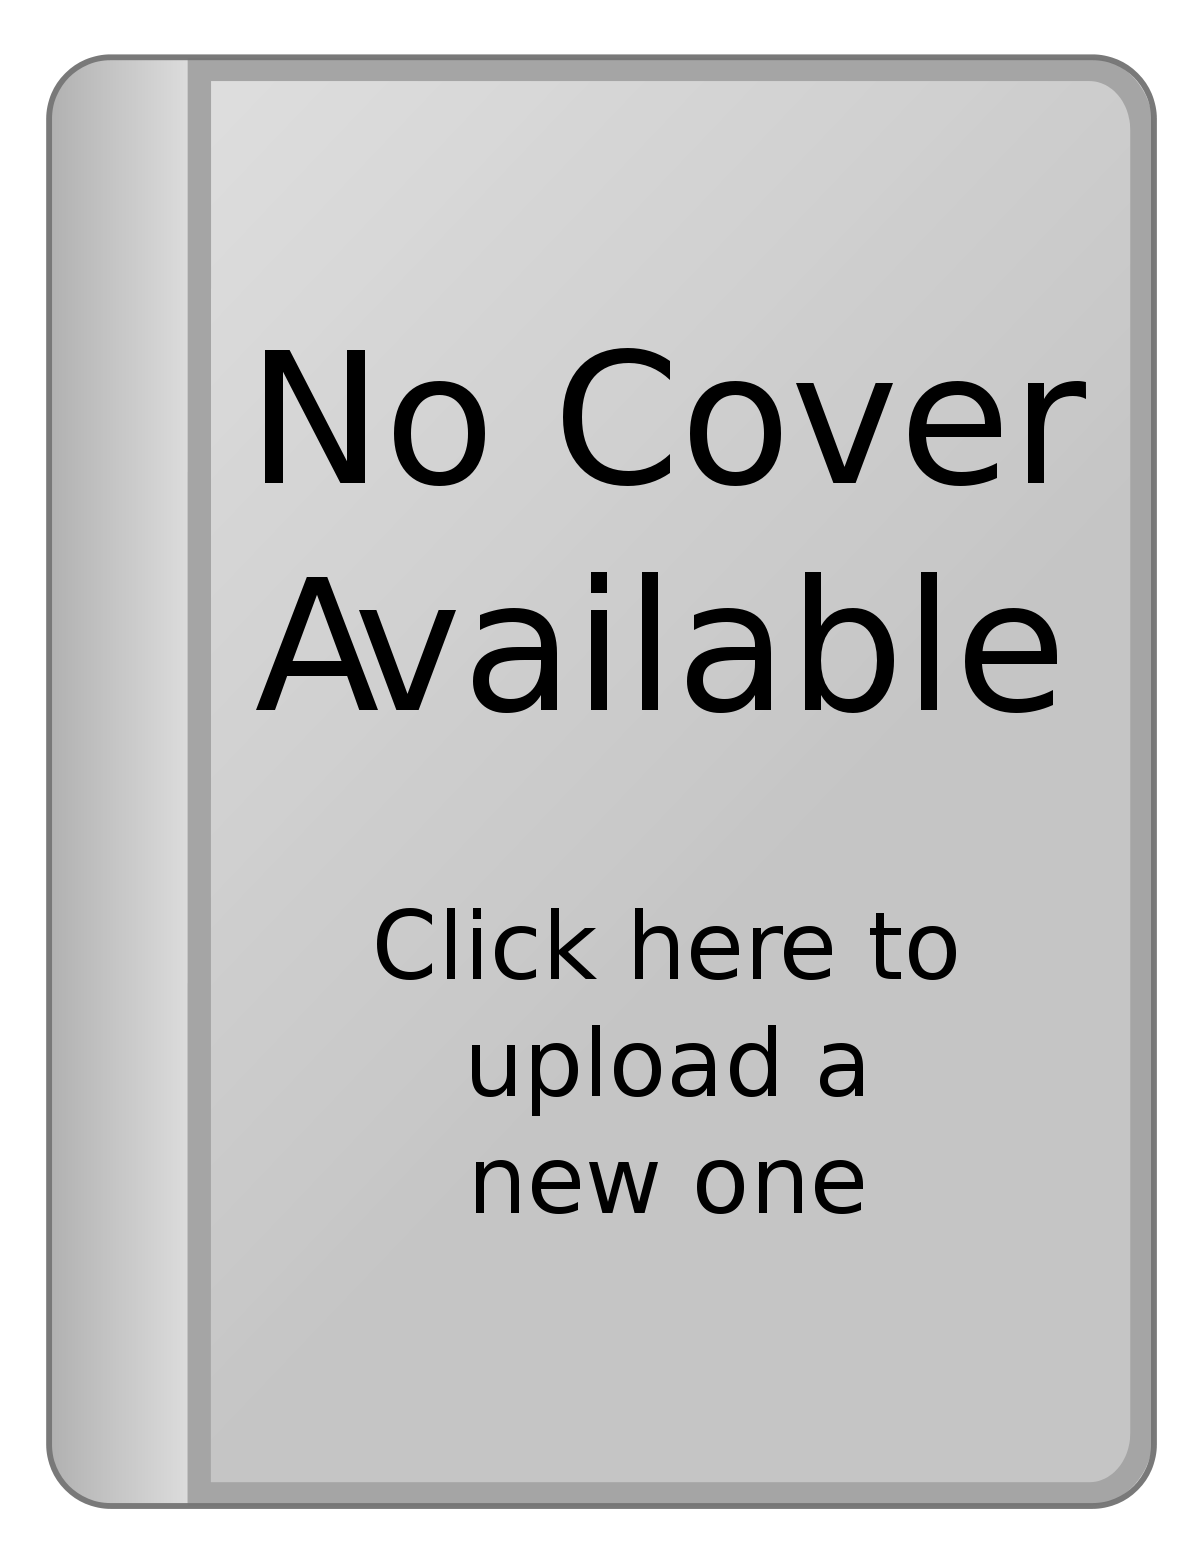
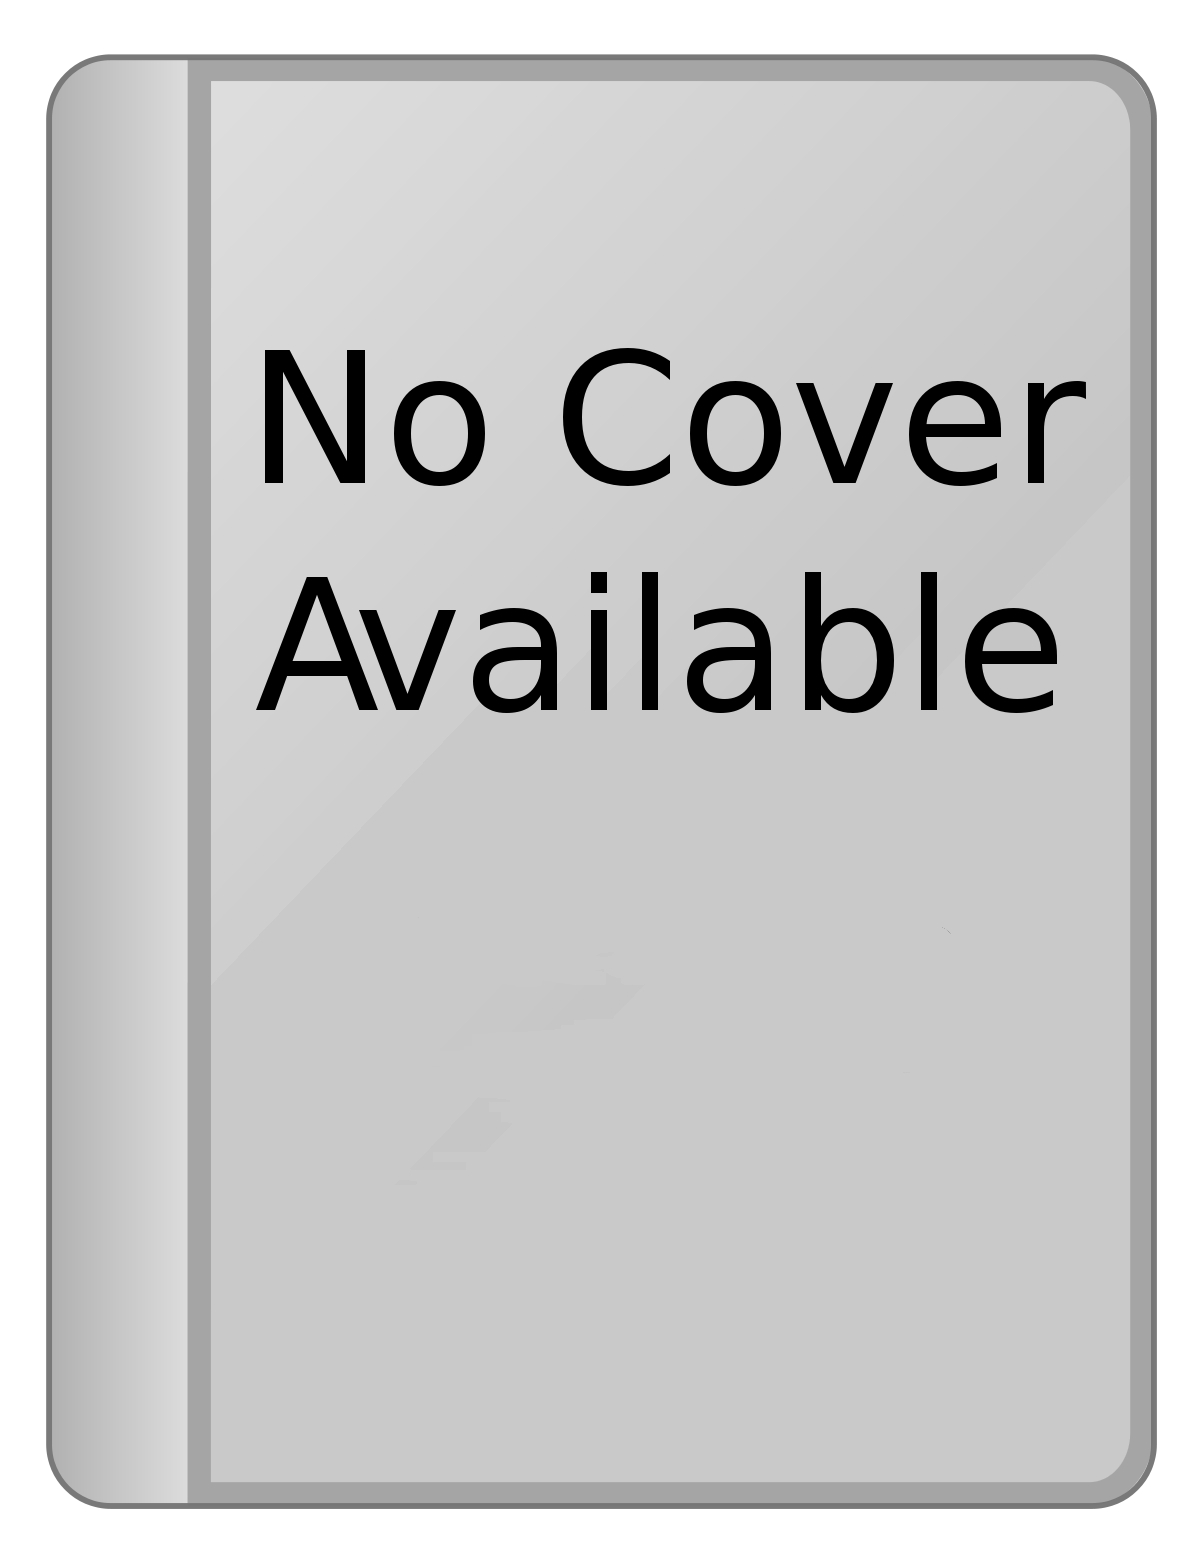
Rezerwacja, Okłdka książki

diff --git a/Controllers/BooksController.cs b/Controllers/BooksController.cs
@@ -2,8 +2,12 @@
 using Library.Interfaces;
 using Library.Models.DataModels;
 using Library.Models.ViewModels;
+using Microsoft.AspNetCore.Authorization;
+using Microsoft.AspNetCore.Http;
+using Microsoft.AspNetCore.Identity;
 using Microsoft.AspNetCore.Mvc;
-using Microsoft.EntityFrameworkCore;
+using System.IO;
+using System.Linq;
 using System.Threading.Tasks;
 
 namespace Library.Controllers
@@ -11,10 +15,12 @@ namespace Library.Controllers
     public class BooksController : Controller
     {
         private readonly IBookService bookService;
+        private readonly UserManager<User> userManager;
 
-        public BooksController(IBookService bookService, LibraryContext context)
+        public BooksController(IBookService bookService, UserManager<User> userManager)
         {
             this.bookService = bookService;
+            this.userManager = userManager;
         }
 
         public IActionResult Index(string searchTerm)
@@ -32,9 +38,10 @@ namespace Library.Controllers
             var book = bookService.GetBookbyId(bookId);
 
             if (book == null)
-            {
                 return RedirectToAction("Index");
-            }
+
+            if (book.Count <= 0)
+                TempData["AddMessage"] = "Obecnie książka jest niedostępna.";
 
             var booksDetailsViewModel = new BooksDetailsViewModel
             {
@@ -50,10 +57,20 @@ namespace Library.Controllers
         }
 
         [HttpPost]
-        public IActionResult Add(Book book)
+        public async Task<IActionResult> AddAsync(Book book)
         {
             if (ModelState.IsValid)
             {
+                IFormFile file = Request.Form.Files.FirstOrDefault();
+                if (file != null)
+                {
+                    using (var dataStream = new MemoryStream())
+                    {
+                        await file.CopyToAsync(dataStream);
+                        book.BookCover = dataStream.ToArray();
+                    }
+                }
+
                 TempData["AddMessage"] = "Pomyślnie dodano książkę!";
                 bookService.AddBook(book);
                 return RedirectToAction("Details", new { bookId = book.Id });
@@ -73,10 +90,20 @@ namespace Library.Controllers
         }
 
         [HttpPost]
-        public IActionResult Edit(Book book)
+        public async Task<IActionResult> EditAsync(Book book)
         {
             if (ModelState.IsValid)
             {
+                IFormFile file = Request.Form.Files.FirstOrDefault();
+                if (file != null)
+                {
+                    using (var dataStream = new MemoryStream())
+                    {
+                        await file.CopyToAsync(dataStream);
+                        book.BookCover = dataStream.ToArray();
+                    }
+                }
+
                 TempData["AddMessage"] = "Edycja książki powiodła się!";
                 bookService.EditBook(book);
                 return RedirectToAction("Details", new { bookId = book.Id });
@@ -85,6 +112,37 @@ namespace Library.Controllers
             return View(book);
         }
 
+        [Authorize]
+        public IActionResult ReservationRequestAsync(int id)
+        {
+            var book = bookService.GetBookbyId(id);
+
+            if (book == null)
+                return RedirectToAction("Index");
+
+            return View(book);
+        }
+
+        [HttpPost]
+        public async Task<IActionResult> ReservationRequest(int id)
+        {
+            var currentLoggedUser = await GetCurrentUser();
+            var book = bookService.GetBookbyId(id);
+
+            if (book == null)
+                return RedirectToAction("Index");
+
+            if (book.Count <= 0)
+            {
+                TempData["AddMessage"] = "Obecnie książka jest niedostępna.";
+                return RedirectToAction("Details", new { bookId = book.Id });
+            }
+
+            TempData["AddMessage"] = "Wysłano prośbę o rezerwację książki.";
+            bookService.ReservationRequestService(book, currentLoggedUser);
+
+            return RedirectToAction("Details", new { bookId = book.Id });
+        }
 
         public IActionResult Delete(int id)
         {
@@ -106,5 +164,14 @@ namespace Library.Controllers
 
             return RedirectToAction("Index");
         }
+
+        [HttpGet]
+        public async Task<User> GetCurrentUser()
+        {
+            var usr = await GetCurrentUserAsync();
+            return usr;
+        }
+
+        private Task<User> GetCurrentUserAsync() => userManager.GetUserAsync(HttpContext.User);
     }
 }

diff --git a/Controllers/UsersController.cs b/Controllers/UsersController.cs
@@ -1,0 +1,58 @@
+using Library.Interfaces;
+using Library.Models.DataModels;
+using Library.Models.ViewModels;
+using Microsoft.AspNetCore.Identity;
+using Microsoft.AspNetCore.Mvc;
+using System.Linq;
+
+namespace Library.Controllers
+{
+    public class UsersController : Controller
+    {
+        private readonly UserManager<User> userManager;
+        private readonly IUserService userService;
+
+        public UsersController(IUserService userService, UserManager<User> userManager)
+        {
+            this.userService = userService;
+            this.userManager = userManager;
+        }
+
+        public IActionResult Index()
+        {
+            return View();
+        }
+
+        public IActionResult ReservationRequests()
+        {
+            var reservationRequestsVm = new ReservationRequestsVm()
+            {
+                Reservations = userService.GetAllReservationRequests().ToList()
+            };
+
+            return View(reservationRequestsVm);
+        }
+
+        public IActionResult ReservationConfirmed(int id)
+        {
+            var reservation = userService.GetReservationbyId(id);
+
+            reservation.ReservationState = ReservationState.Accepted;
+
+            userService.UpdateReservation(reservation);
+
+            return RedirectToAction("ReservationRequests");
+        }
+
+        public IActionResult ReservationRejected(int id)
+        {
+            var reservation = userService.GetReservationbyId(id);
+
+            reservation.ReservationState = ReservationState.Rejected;
+
+            userService.UpdateReservation(reservation);
+
+            return RedirectToAction("ReservationRequests");
+        }
+    }
+}

diff --git a/Services/UserService.cs b/Services/UserService.cs
@@ -1,0 +1,51 @@
+using Library.DAL;
+using Library.Interfaces;
+using Library.Models.DataModels;
+using Microsoft.EntityFrameworkCore;
+using System;
+using System.Collections.Generic;
+using System.Linq;
+using System.Threading.Tasks;
+
+namespace Library.Services
+{
+    public class UserService : IUserService
+    {
+        private readonly LibraryContext dbContext;
+
+        public UserService(LibraryContext dbContext)
+        {
+            this.dbContext = dbContext;
+        }
+
+        public IQueryable<Reservation> GetAllReservationRequests()
+        {
+            return from r in dbContext.Reservations.Where(x => x.ReservationState == ReservationState.Pending)
+                   .Include(b => b.Book).Include(u => u.User) 
+                   select r;
+        }
+
+        public Reservation GetReservationbyId(int id)
+        {
+            return dbContext.Reservations.FirstOrDefault(b => b.Id == id);
+        }
+
+        public Reservation UpdateReservation(Reservation reservation)
+        {
+            if(reservation.ReservationState == ReservationState.Rejected)
+            {
+                var book = dbContext.Books.FirstOrDefault(x => x.Id == reservation.BookId);
+
+                book.Count += 1;
+
+                dbContext.Books.Update(book);
+                dbContext.SaveChanges();
+            }
+
+            dbContext.Reservations.Update(reservation);
+            dbContext.SaveChanges();
+
+            return reservation;
+        }
+    }
+}

diff --git a/Services/BookService.cs b/Services/BookService.cs
@@ -1,13 +1,9 @@
-using AutoMapper;
-using Library.DAL;
+using Library.DAL;
 using Library.Interfaces;
 using Library.Models.DataModels;
-using Microsoft.AspNetCore.Identity;
-using Microsoft.Extensions.Logging;
 using System;
 using System.Collections.Generic;
 using System.Linq;
-using System.Threading.Tasks;
 
 namespace Library.Services
 {
@@ -35,6 +31,7 @@ namespace Library.Services
 
         public Book AddBook(Book book)
         {
+
             dbContext.Books.Add(book);
             dbContext.SaveChanges();
 
@@ -53,6 +50,25 @@ namespace Library.Services
         {
             dbContext.Books.Remove(book);
             dbContext.SaveChanges();
+        }
+
+        public Reservation ReservationRequestService(Book book, User user)
+        {
+            var reservation = new Reservation()
+            {
+                BookId = book.Id,
+                Book = book,
+                UserId = user.Id,
+                User = user,
+                ReservationState = ReservationState.Pending,
+                DateOfIssue = DateTime.Now
+            };
+            book.Count -= 1;
+            dbContext.Reservations.Add(reservation);
+            dbContext.Books.Update(book);
+            dbContext.SaveChanges();
+
+            return reservation;
         }
     }
 }

diff --git a/Interfaces/IUserService.cs b/Interfaces/IUserService.cs
@@ -1,0 +1,15 @@
+using Library.Models.DataModels;
+using System;
+using System.Collections.Generic;
+using System.Linq;
+using System.Threading.Tasks;
+
+namespace Library.Interfaces
+{
+    public interface IUserService
+    {
+        IQueryable<Reservation> GetAllReservationRequests();
+        Reservation GetReservationbyId(int id);
+        Reservation UpdateReservation(Reservation reservation);
+    }
+}

diff --git a/Models/DataModels/Book.cs b/Models/DataModels/Book.cs
@@ -56,5 +56,8 @@ namespace Library.Models.DataModels
         [Display(Name = "Ilość egzemplaży")]
         [Range(1, Int32.MaxValue, ErrorMessage = "Proszę wprowadzić odpowiednią ilość egzemplarzy (minimalna wartość to 1)")]
         public int? Count { get; set; }
+
+        [Display(Name = "Okładka książki")]
+        public byte[] BookCover { get; set; }
     }
 }

diff --git a/Startup.cs b/Startup.cs
@@ -40,7 +40,7 @@ namespace Library
 
           
             services.AddScoped<IBookService, BookService>();
-            services.Configure<AuthMessageSenderOptions>(Configuration);
+            services.AddScoped<IUserService, UserService>();
 
             services.AddControllersWithViews();
             services.AddRazorPages();

diff --git a/Models/ViewModels/ReservationRequestsVm.cs b/Models/ViewModels/ReservationRequestsVm.cs
@@ -1,0 +1,13 @@
+using Library.Models.DataModels;
+using System;
+using System.Collections.Generic;
+using System.Linq;
+using System.Threading.Tasks;
+
+namespace Library.Models.ViewModels
+{
+    public class ReservationRequestsVm
+    {
+        public List<Reservation> Reservations { get; set; }
+    }
+}

diff --git a/Interfaces/IBookService.cs b/Interfaces/IBookService.cs
@@ -12,6 +12,7 @@ namespace Library.Interfaces
         Book GetBookbyId(int bookId);
         Book AddBook(Book book);
         Book EditBook(Book book);
+        Reservation ReservationRequestService(Book book, User user);
         void DeleteBook(Book book);
     }
 }

diff --git a/DAL/LibraryContext.cs b/DAL/LibraryContext.cs
@@ -12,6 +12,7 @@ namespace Library.DAL
         }
 
         public DbSet<Book> Books { get; set; }
+        public DbSet<Reservation> Reservations { get; set; }
 
         protected override void OnModelCreating(ModelBuilder modelBuilder)
         {

diff --git a/Models/DataModels/ReservationState.cs b/Models/DataModels/ReservationState.cs
@@ -2,7 +2,6 @@
 {
     public enum ReservationState
     {
-
         Pending,
         Rejected,
         Accepted,
